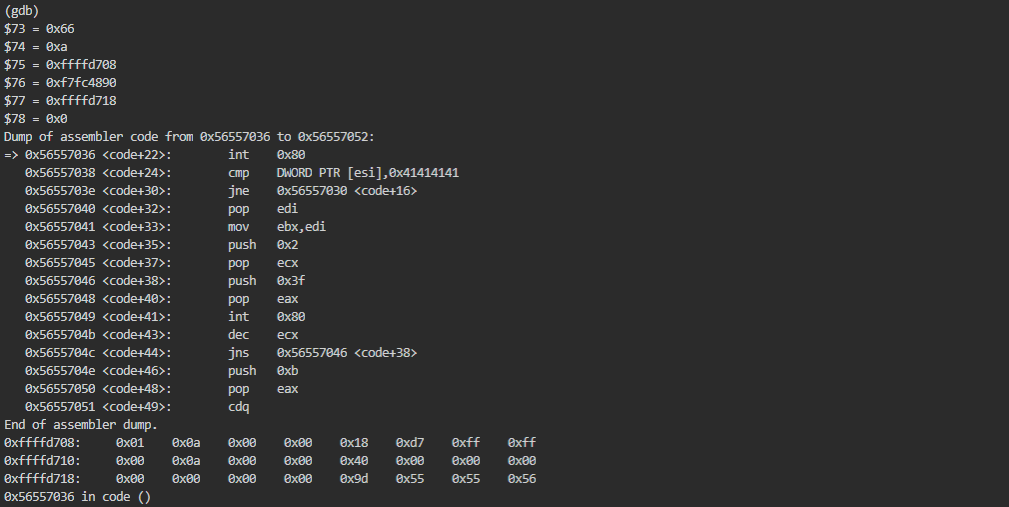
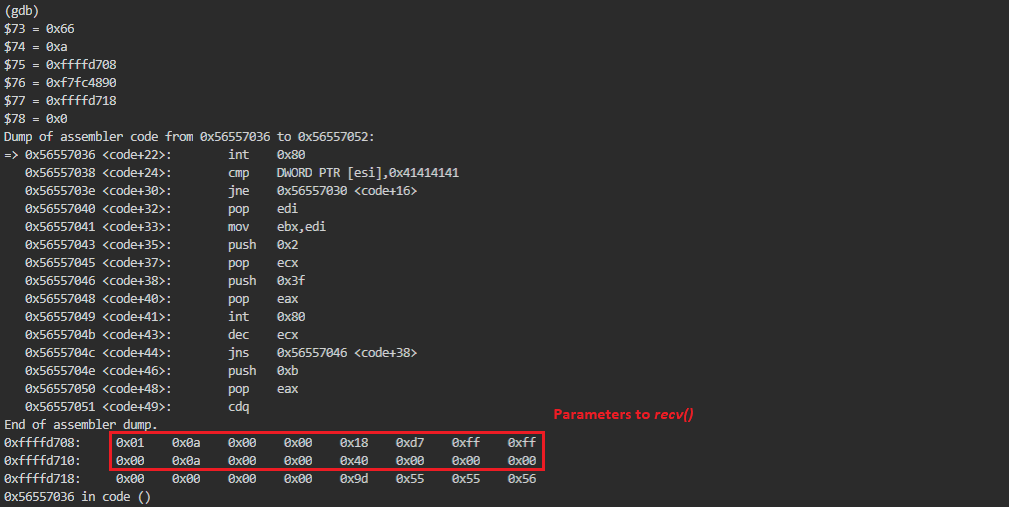
push screenshots

Changed region(s): [[0.0922, 0.9172, 0.553, 0.9467], [0.0922, 0.8284, 0.553, 0.858], [0.553, 0.7988, 0.7066, 0.8284]]

diff --git a/drafts/find_tag-analysis.html b/drafts/find_tag-analysis.html
@@ -270,23 +270,46 @@ End with a line saying just "end".
 									</pre>
 
 									<p>
-										Before stepping through instructions, it is worth investigating the function's man page. &nbsp;<i>socketcall()</i> is a deprecated syscall present exclusively on Linux
-										systems. &nbsp;It is a socket type syscall used to perform socket functions. &nbsp;Register <i>ebx</i> is its first parameter and contains the number referring to
-										 the <b>actual</b> syscall. &nbsp;These syscall values are located in <code>/usr/include/linux/net.h</code>.
+										Before stepping through instructions, it is worth investigating the function's man page. &nbsp;<i>socketcall()</i> is a syscall that defers to other socket-based functions and is
+										exclusive to Linux systems. &nbsp;Register <i>ebx</i> is its first parameter and contains the number
+										 referring to the <b>actual</b> syscall. &nbsp;These syscall values are located in <code>/usr/include/linux/net.h</code>:
 									</p>
 									<center><div class="image post"><img src="../images/slae/assignment5/shell/12-net-header.png" alt="" /></div></center><br>
 
 									<p>
+										Further review of <i>recv()</i> is needed to understand values located at <i>ecx</i>.
+									</p>
+									<pre>
+										<code class="c-like" style=display:block;white-space:pre-wrap>
+// Function definition
+ssize_t recv(int sockfd, void *buf, size_t len, int flags);
+										</code>
+									</pre>
+
+									<p>
 										These are the parameters before invoking <i>int 0x80</i>. &nbsp;According to the <i>net.h</i> file and <i>Libemu</i> output, a call to <i>recv()</i> will be executed
-										below. &nbsp;
+										below since <i>ebx</i> equals 0xa (10). &nbsp;Register <i>ecx</i> holds a pointer to the <i>recv()</i> parameters.
 									</p>
 									<center><div class="image post"><img src="../images/slae/assignment5/shell/13-before-recv.png" alt="" /></div></center><br>
 
 									<p>
-										Step again to observe results from the call to <i>setreuid()</i>. &nbsp;Register <i>eax</i> is zero meaning the call was successful. &nbsp;Furthermore,
-										nothing was changed on the stack.
+										Step again to observe results after the syscall. &nbsp;Register <i>eax</i> is 0xfffffff7 (-1) meaning the call returned a bad file descriptor. &nbsp;Nothing was changed
+										on the stack; however, the word at <i>ecx</i> is incremented to 0xa02 in the following steps. &nbsp;This repeats for every bad file descriptor encountered.
 									</p>
 									<center><div class="image post"><img src="../images/slae/assignment5/shell/14-after-recv.png" alt="" /></div></center><br>
+
+									<p>
+										Cyclic activity is confirmed when running the binary with <i>strace</i>. &nbsp;
+									</p>
+									<center><div class="image post"><img src="../images/slae/assignment5/shell/15-recv-activity.png" alt="" /></div></center><br>
+
+
+
+
+
+
+
+
 
 									<p>
 										The next syscall is to <i>open()</i> shown by loading 0x5 into <i>eax</i>. &nbsp;It takes two parameters: pathname to the requested file as a pointer,
